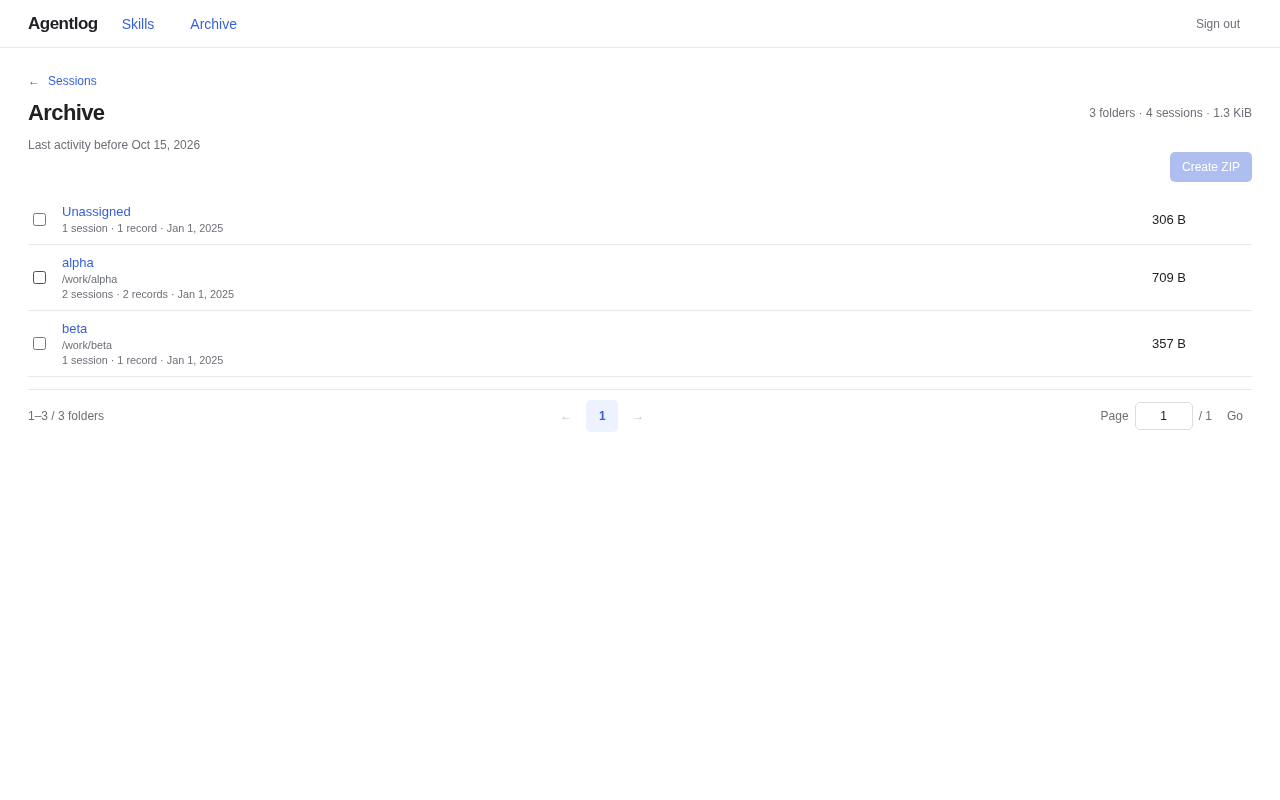
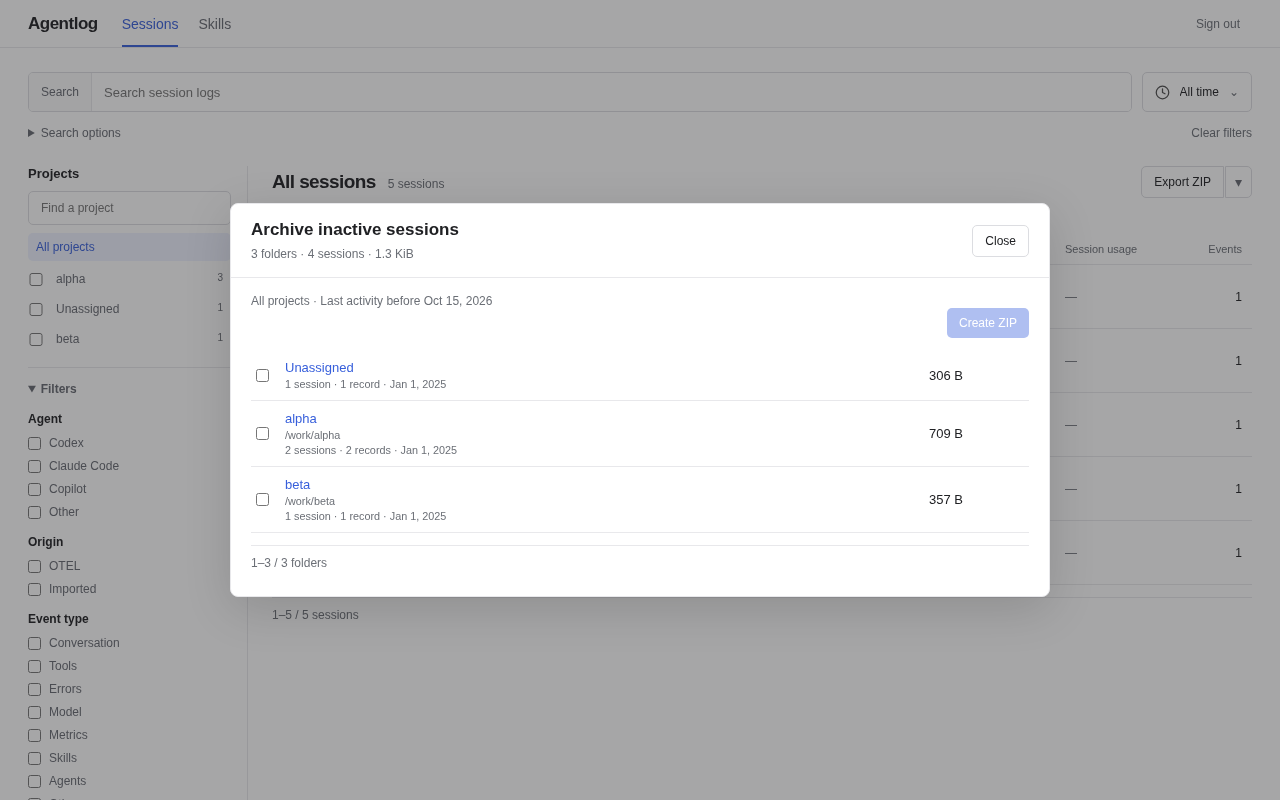
docs: 整理後の画面構成と操作手順・スクリーンショットを更新

diff --git a/docs/search-filters.md b/docs/search-filters.md
@@ -1,16 +1,16 @@
 # Search filters
 
-Sessions, Skills and Export share a time range, project selection, agent and origin filters. Use a project name to select one project, or its checkbox to combine several. Within one field, selections are ORed; different fields are ANDed. An empty selection includes all values.
+Sessions and Skills share a time range, project selection, agent and origin filters. Use a project name to select one project, or its checkbox to combine several. Within one field, selections are ORed; different fields are ANDed. An empty selection includes all values.
 
-The layout follows the [Datadog Log Explorer](https://docs.datadoghq.com/logs/explorer/): search and event time across the top, projects and checkbox facets on the left, results on the right. Text options and exact-ID search open below the query; time bounds open beside the range selector. On narrow screens the facets collapse and pagination stays after the results.
+The layout follows the [Datadog Log Explorer](https://docs.datadoghq.com/logs/explorer/): search and event time across the top, projects and checkbox facets on the left, results on the right. Text matching, exclusions and exact-ID search share one **Search options** panel below the query; time bounds open beside the range selector. On narrow screens the facets collapse and pagination stays after the results.
 
 ![Time and project filters with matching-record analysis](ui-search-facets.png)
 
 - **Event time**: all time, last 15 minutes/hour/24 hours/7 days/30 days, or an open/closed custom range, to the second. Inputs use the browser's named local timezone. From is inclusive and To is exclusive. Presets resolve once when chosen; they do not move in the background. UI-generated URLs contain whole-second UTC bounds so a reload/shared URL reproduces the same range. Opening an older fractional-bound URL in the UI rounds its bounds down to seconds; stored event timestamps and direct API precision are unchanged.
 - **Agent / Origin**: combine agents or OTEL/imported records with checkboxes.
-- **Event type** (Sessions/Export): conversation, tools, errors, model, metrics, skills, agents and other events. Overlapping categories are a union, so an error tool event counts once.
+- **Event type** (Sessions): conversation, tools, errors, model, metrics, skills, agents and other events. Overlapping categories are a union, so an error tool event counts once.
 - **Text match**: AND (default) or OR over analyzed Japanese/English words. **Exclude words** removes records containing any analyzed exclusion term. These fields stay outside the ordinary text box. Skills instead searches the skill name/plugin/scope/path strings; exclusions remove matching skills.
-- **Search IDs** (Sessions/Export): an exact ID field/value, combined with the text and event filters. When combined, the ID and text/time/type/origin must belong to the same stored record. The panel closes after applying; its Active label remains visible.
+- **Exact ID** in **Search options** (Sessions): an exact ID field/value, combined with the text and event filters. When combined, the ID and text/time/type/origin must belong to the same stored record. The panel closes after applying; its Active label remains visible.
 
 The session list shows sessions containing a matching record. Time is **event time**, not the session's start or last activity; nested skill filters use their invocation time, and day grouping uses the first matching invocation in each stored record; a continuing session can therefore match an earlier range. Session titles, last activity, event counts and **Session usage** describe the full session. Internal and child sessions remain hidden by default.
 
@@ -18,7 +18,7 @@ The session list shows sessions containing a matching record. Time is **event ti
 
 **Analyze results** runs only when opened. Group matching stored-record counts, distinct sessions and error counts by UTC day, project, agent or event type. Import/OTEL copies are distinct records here; this is not the merged timeline's logical event count. Up to 100 groups are displayed, with an explicit notice when more exist. An open analysis updates when its conditions change; there is no polling. Analysis errors do not hide the session list.
 
-**Export matching sessions** carries the full filter and root/internal visibility to Export, where they can be changed. Its ZIP contains the complete histories of matching sessions, including records outside the range. **Export project** remains the separate way to export complete projects. Export preview and download use the same predicate. Each download uses one snapshot for its manifest, counts and histories. The manifest records repeated selections as arrays.
+**Export ZIP** downloads the complete histories of all matching list sessions, including pages not currently shown and records outside the selected time range. The adjacent menu offers **Export entire project** (all selected projects, including internal and child sessions, independent of the current text/time filters) and **Archive inactive sessions…**. Neither action opens another page or changes the current search. Each download uses one snapshot for its manifest, counts and histories. The manifest records repeated selections as arrays.
 
 ![Skill usage within the selected range and projects](ui-search-skills.png)
 

diff --git a/docs/export.md b/docs/export.md
@@ -1,39 +1,29 @@
-# Export
+# Export and archive
 
-Choose a project and click **Export project**, or open **Export** in the top bar.
-The project button opens `/export?project=…&diagnostics=1` with the whole project
-selected. Previous text/ID filters are cleared for this full-project action.
+All file operations start in **Sessions**. No export or archive page is required.
 
-The export page supports project selection, Japanese/English text search, exact
-IDs and agent filtering. Its URL preserves the search conditions. Counts and the
-preview show the complete export scope; **Download ZIP** exports all matching
-sessions, including pages beyond the one currently displayed. A text/ID match
-selects a session's entire history, including replies and tool results.
+![Session list with export actions](ui-data-actions.png)
 
-By default, matching subagent and internal Codex sessions are included. Uncheck
-**Internal Codex sessions** to exclude internal conversations. Project selection
-uses the stored project label/path, as in the viewer; absent project metadata is
-not invented. Exports contain current committed DB records, including data held
-by an archive operation until deletion. Original session files are not modified.
+- **Export ZIP** downloads all sessions matching the list’s current search, including pages not currently shown. Internal and subagent-only sessions follow the list’s visibility. A matching session exports its complete history, including replies, tool results and events outside the selected time range.
+- The adjacent menu’s **Export entire project** downloads every session in the selected projects, including internal, child and archive-locked sessions. Text, time and ID filters do not limit this action; the current search stays unchanged.
+- **Archive inactive sessions…** opens a panel over the list. Select folders containing sessions inactive for over one calendar month, create/download a ZIP, check the file, type **DOWNLOADED**, then delete the archived DB data. The panel covers all projects and shows its own cutoff and selection. Downloading or closing the panel never deletes data. See [archive storage and recovery](archive.md).
 
-ZIP contents:
+![Archive download confirmation in the session list](ui-data-download-confirmation.png)
+
+Direct exports stream to the browser without retaining an export file on the server or assembling the dataset in browser memory. Counts, membership and event rows share one read snapshot. Interrupted exports are not finalized as successful ZIPs.
+
+Direct-export ZIP contents:
 
 - `manifest.json`: format/version, creation time, filters and session/record counts.
-- `events.jsonl`: one original collector event per line, including ID, session,
-  parent, source, origin, timestamps and the full OTLP `raw` document. Imported
-  and OTEL counterparts are both included, even if the viewer merges their cards.
+- `events.jsonl`: each original collector event with its ID, session, parent, source, origin, timestamps and complete OTLP `raw` document. Imported and OTEL counterparts remain separate originals.
 
-The ZIP streams directly to the browser without retaining an export file on the
-server or assembling the full dataset in browser memory. A single read snapshot
-keeps membership and counts consistent while ingestion continues. Interrupted
-exports are not finalized as successful ZIPs.
+The inactive-session archive retains its resumable job, per-session ZIP layout, checksum, download confirmation and deletion protection. Closing and reopening the panel resumes viewing the current job; no periodic refresh is used. Source files stay in place.
 
-Authenticated API:
+## API
 
 - Preview: `GET /api/export/sessions?project=…&q=…`
 - Download: `GET /api/export/download?project=…&q=…`
 
-Both accept the session search filters (`project`, `folder`, `q`, `id_key`,
-`id_value`, `source`, `skill`, `plugin`, `diagnostics`). Internal sessions default
-to included; use `diagnostics=0` to exclude them. Preview pagination uses `offset`;
-downloads ignore it. The existing single-session JSON endpoint remains available.
+Both accept session search filters. API defaults include internal, child and archive-locked sessions. To match the visible list, pass `diagnostics=0` (or `1` when enabled), `include_children=0` and `include_locked=0`. Downloads ignore pagination and export the complete histories of matching sessions. The existing single-session JSON endpoint remains available.
+
+Old `/export` links return to the shared list with their filters. Old `/archive` links open its inactive-session panel.

diff --git a/docs/search.md b/docs/search.md
@@ -12,7 +12,7 @@ The default configuration is built into every binary and Docker image:
 
 Full decoded **string values** are indexed: prompts, replies, tool input/output, project labels, event names and other textual attributes. Nested JSON strings are decoded too. JSON keys, ID fields, numbers, booleans, binary values and OTLP nanosecond timestamps are excluded. OTLP `intValue` is numeric even though its protobuf JSON representation is a string. A value explicitly sent as `stringValue` remains text. Card truncation does not affect search. Results retain the full session's event count and recent-activity order. Words are matched within an event; punctuation alone and Japanese stop words do not produce results. Queries are treated as literal words, with a limit of 512 characters / 64 distinct terms.
 
-Open **Search IDs** to find an ID by exact value. Choose an ID field or leave it empty to search all ID fields. Presets include session, event, trace, span, call, message and agent IDs; any actual ID attribute name, such as `rpc.request_id`, can also be entered. IDs retain case, punctuation and full/half-width characters, with no morphological analysis or normalization. For session IDs, both the collector's `codex:…` form and the sender's original `session.id` / `conversation.id` are indexed. Imported and OTEL field aliases such as `tool_call_id` and `gen_ai.tool.call.id` are also available under `call.id`.
+Open **Search options** and use **Exact ID** to find an ID by exact value. Choose an ID field or leave it empty to search all ID fields. Presets include session, event, trace, span, call, message and agent IDs; any actual ID attribute name, such as `rpc.request_id`, can also be entered. IDs retain case, punctuation and full/half-width characters, with no morphological analysis or normalization. For session IDs, both the collector's `codex:…` form and the sender's original `session.id` / `conversation.id` are indexed. Imported and OTEL field aliases such as `tool_call_id` and `gen_ai.tool.call.id` are also available under `call.id`.
 
 ID lookups use a separate SQLite B-tree index on `(value,key,session)`, not FTS or a raw-log scan. Full-text and ID filters can be combined with project selection. The API accepts `id_key` and `id_value`, for example `/api/sessions?id_key=trace.id&id_value=0123456789abcdef0123456789abcdef`. Values are exact matches, up to 4096 characters. Existing internal-session and subagent visibility rules still apply.
 

diff --git a/docs/projects.md b/docs/projects.md
@@ -8,10 +8,10 @@
 The session search page keeps projects in a persistent sidebar, ordered by their most recent session activity. Click a project to filter sessions, or combine several with their checkboxes; text search and [time/agent/origin filters](search-filters.md) apply within that selection. Projects have their own search. Selection is saved in the URL and restored when returning from a session.
 
 Sidebar counts and ordering follow the visible root sessions: subagent sessions
-are excluded, and internal Codex conversations are excluded unless **Internal
-Codex sessions** is enabled. Projects containing only hidden sessions are omitted.
-The export page uses its inclusive scope, so complete exports still include
-matching children and requested internal sessions.
+are excluded, and internal conversations are excluded unless **Internal
+sessions** is enabled. Projects containing only hidden sessions are omitted.
+**Export entire project** in the list’s Export menu uses an inclusive scope, so complete project exports still include
+all children and internal sessions of the selected projects.
 
 Projects are grouped by name. Agentlog uses an explicit `service.namespace` / `project.name` label when present; otherwise it uses the final directory name from the exported working directory. For example, the label `shop`, `/workspaces/shop` and `/home/user/shop` all belong to the same project. Windows and POSIX directory separators are supported. Names match exactly, including case. Sessions with neither a label nor a working directory appear under **Unassigned**. Paths mentioned in prompts or tool arguments are never used to guess a project.
 

diff --git a/README.md b/README.md
@@ -11,12 +11,11 @@ A personal OpenTelemetry collector and session viewer for Codex CLI, Claude Code
 - Collect logs, traces and metrics over OTLP/HTTP (JSON or Protobuf), or import and watch saved CLI sessions.
 - Search Japanese and English with built-in SQLite FTS5 and an embedded Japanese dictionary ([search settings](docs/search.md)).
 - Keep projects visible beside session search; timelines open at the latest activity. Inspect [tool inputs/outputs](docs/tool-events.md) and [subagent logs](docs/subagents.md) in the side panel.
-- Rank Codex [skills](docs/skills.md) by usage across sessions or per project; search names, plugins and references, then open matching sessions.
+- Rank [skills](docs/skills.md) by usage across sessions or per project; search names, plugins and references, then open matching sessions.
 - Compare reported tokens, cache usage, USD cost, request time and errors per session ([accounting rules](docs/usage.md)).
 - Read conversations and tool [activity](docs/activity.md) first; inspect internal telemetry in Diagnostics.
 - Combine imported and OTEL events with shared IDs into one card while keeping both originals.
-- [Export a project or matching sessions](docs/export.md) as a streaming ZIP of complete logs.
-- Archive inactive sessions by folder; download a ZIP, confirm it, then delete archived data and reclaim space.
+- [Export and archive](docs/export.md) from the session list: download complete logs or archive inactive folders, confirm the download, then reclaim DB space.
 - One Go binary with an embedded UI, SQLite storage and optional token authentication. No automatic log expiry.
 
 ## Setup

diff --git a/docs/archive.md b/docs/archive.md
@@ -2,7 +2,7 @@
 
 ![Archive download and confirmation, using synthetic sessions](ui-archive.png)
 
-1. Open **Archive**. Folders containing sessions inactive for over one calendar month appear here. Sessions with unknown timestamps are excluded.
+1. In **Sessions**, open the menu beside **Export ZIP** and choose **Archive inactive sessions…**. The panel covers all projects; the list’s search stays unchanged. Folders containing sessions inactive for over one calendar month appear here. Sessions with unknown timestamps are excluded.
 2. Select one or more folders, then **Create ZIP**. Only inactive sessions in those folders are included, across all agents. Job progress is pushed while the operation runs.
 3. **Download ZIP**, check the local file, then type **DOWNLOADED** and choose **Delete archived data**.
 
